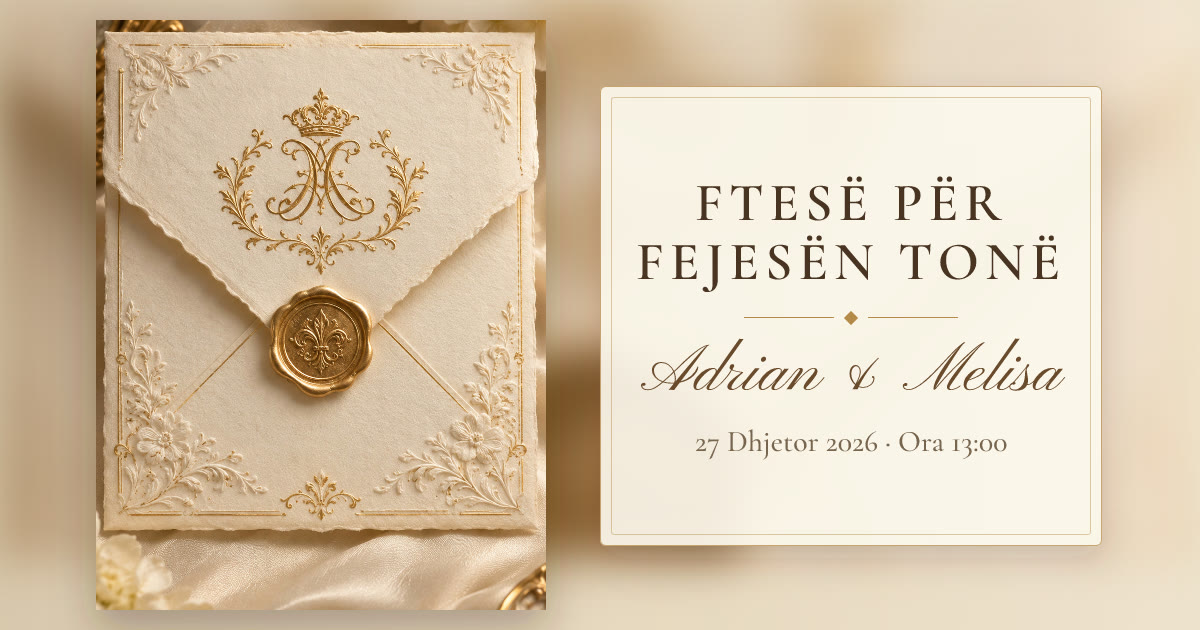
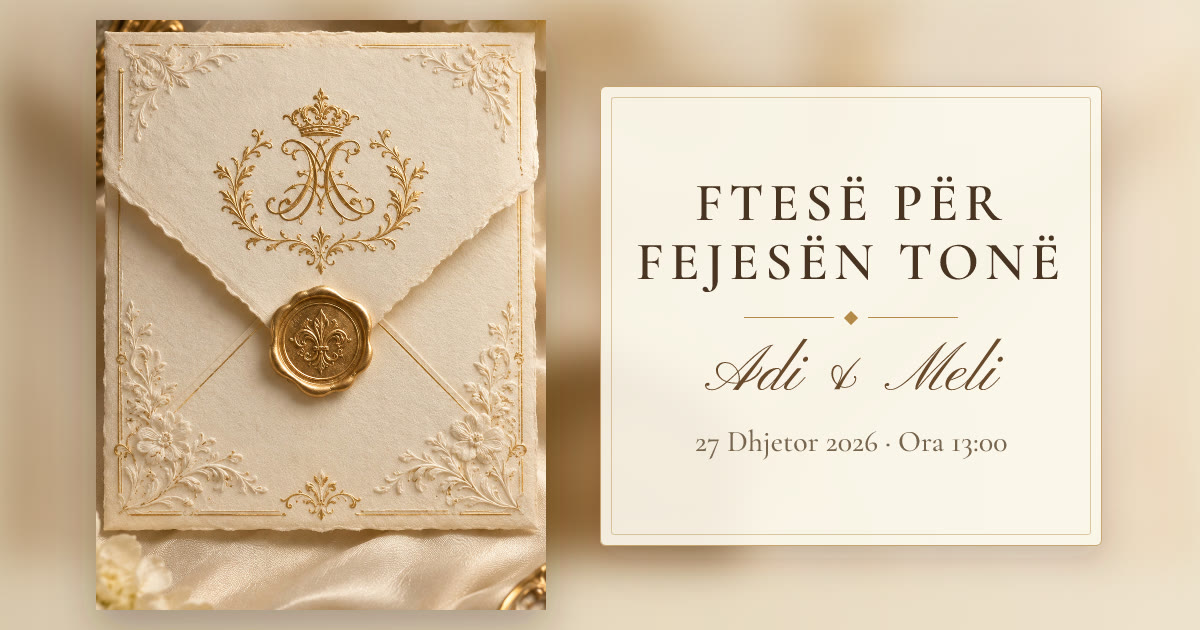
Ndrysho emrat në Adi & Meli
Emrat merren nga config/wedding.json edhe në titullin e faqes;
imazhi i parapamjes (OG) u rigjenerua.

Changed region(s): [[0.5242, 0.5429, 0.8942, 0.6333]]

diff --git a/app/layout.tsx b/app/layout.tsx
@@ -1,5 +1,6 @@
 import type { Metadata, Viewport } from "next";
 import localFont from "next/font/local";
+import cfg from "@/config/wedding.json";
 import "./globals.css";
 
 // Fonts are bundled with the project (OFL, from @fontsource) so builds never depend on Google Fonts.
@@ -34,7 +35,7 @@ const siteUrl =
   process.env.NEXT_PUBLIC_SITE_URL ??
   (process.env.VERCEL_PROJECT_PRODUCTION_URL ? `https://${process.env.VERCEL_PROJECT_PRODUCTION_URL}` : "http://localhost:3000");
 
-const title = "Ftesë për fejesën tonë — Adrian & Melisa";
+const title = `Ftesë për fejesën tonë — ${cfg.groom} & ${cfg.bride}`;
 const description = "27 Dhjetor 2026 · Ora 13:00 · Hapni zarfin për ftesën";
 
 export const metadata: Metadata = {

diff --git a/README.md b/README.md
@@ -1,4 +1,4 @@
-# Ftesë fejese — Adrian & Melisa
+# Ftesë fejese — Adi & Meli
 
 Ftesë digjitale (mobile-first) e ndërtuar sipas udhëzimeve të `Royal-Wedding-Codex-Handoff.zip` (shiko `docs/`).
 
@@ -12,7 +12,7 @@ npm run typecheck
 
 ## Të dhënat
 Të gjitha të dhënat janë te `config/wedding.json`.
-- Emrat: Adrian & Melisa · Data: 27 Dhjetor 2026 · Ora: 13:00 · Lokali: Bar Restorant Vëllezërit Dushkaj (link Google Maps)
+- Emrat: Adi & Meli · Data: 27 Dhjetor 2026 · Ora: 13:00 · Lokali: Bar Restorant Vëllezërit Dushkaj (link Google Maps)
 - `timeline`, tekstet: ende **null** → faqja tregon vlera shembull me etiketën "shembull · për t'u konfirmuar".
 - Butoni "Shiko në Hartë" shfaqet vetëm kur plotësohet `venue.mapsUrl`.
 - Kur gjithçka konfirmohet, vendos `"confirmed": true` (heq shiritin "Parapamje lokale").
